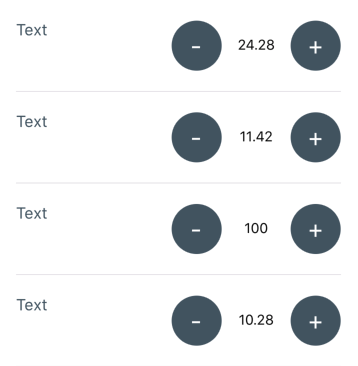
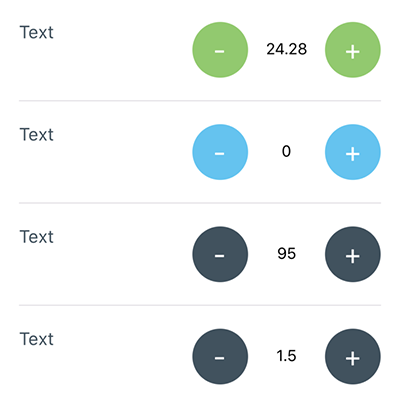
Improved images example

diff --git a/index.js b/index.js
@@ -40,6 +40,7 @@ class InputSpinner extends Component {
             disabled: this.props.disabled,
             width: this.props.width,
             height: this.props.height,
+            textColor: this.props.textColor,
             color: this.props.color,
             colorMin: colorMin,
             colorMax: colorMax,
@@ -106,6 +107,11 @@ class InputSpinner extends Component {
                 newState.colorMax = this.props.color;
             }
             this.setState(newState);
+        }
+
+        // Text Color
+        if (this.props.textColor !== prevProps.textColor) {
+            this.setState({textColor: this.props.textColor});
         }
 
         // Type
@@ -300,7 +306,7 @@ class InputSpinner extends Component {
 
                 <TextInput
                     style={[Style.numberText, this.props.inputStyle,
-                        {color: this.props.textColor},
+                        {color: this.state.textColor},
                         {fontSize: this.props.fontSize},
                         {borderColor: this.props.showBorder ? color : 'transparent'},
                         {backgroundColor: this.props.background},

diff --git a/README.md b/README.md
@@ -53,9 +53,9 @@ include InputSpinner from 'react-native-input-spinner';
 ## Screenshot
 
 
-Default props          | Not rounded, showBorder, Min & Max colors |
-------------------|-------------|
-<img src="example.png" />       | <img src="example2.png" /> |
+Default props + Min & Max colors          | Not rounded + showBorder + Min & Max colors |
+------------------|-------------|-------------
+<img src="example.png" />       | <img src="example_2.png" /> |
 
 ## Handlers
 
@@ -79,18 +79,23 @@ step            | Value to increment or decrement the current spinner value | St
 value             | Controlled value of the Spinner | String<br>Number | 0 | |
 disabled          | Disable the Spinner or not | Boolean | false | |
 editable          | Set if input number field is editable or not | Boolean | true | |
+
+## Props style
+
+Property          | Description | Type | Default | Note
+------------------|-------------|------|---------|-------
+style | Container style | Object |  |
 width             | Custom width of the Spinner | Number | 150 | |
 height            | Custom height of the Spinner | Number | 50 | |
-style | Container style | Object |  |
-buttonStyle | Button Style | Object |  |
-inputStyle | InputStyle | Object |  |
 color             | Custom color of the Spinner | String | ‘#3e525f' | |
 colorMin             | Custom color of the Spinner when reach min value | String | | |
 colorMax             | Custom color of the Spinner when reach max value | String | | |
-textColor          | Custom number color | String | ‘#000000' | |
 background        | Background color of number button | String | ’transparent' | |
 rounded        | Use circular button | Boolean | true | |
 showBorder        | Show the border of the Spinner or not | Boolean | false | Use with `rounded={false}` |
+textColor          | Custom number color | String | ‘#000000' | |
+inputStyle | InputStyle | Object |  |
 fontSize          | Custom fontSize of the text input in the Spinner | Number | 14 | |
 buttonFontSize        | Custom fontSize of buttons in the Spinner | Number | 14 | |
 buttonTextColor   | Custom color of the button in the Spinner | String | 'white' | |
+buttonStyle | Button Style | Object |  |
